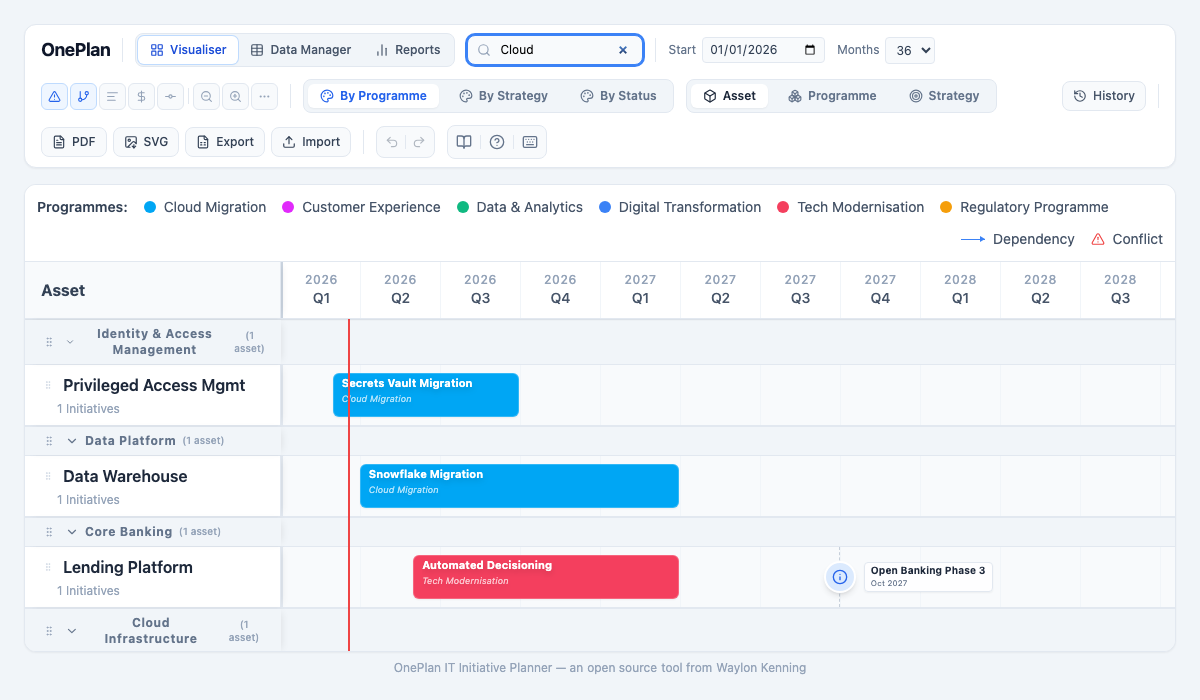
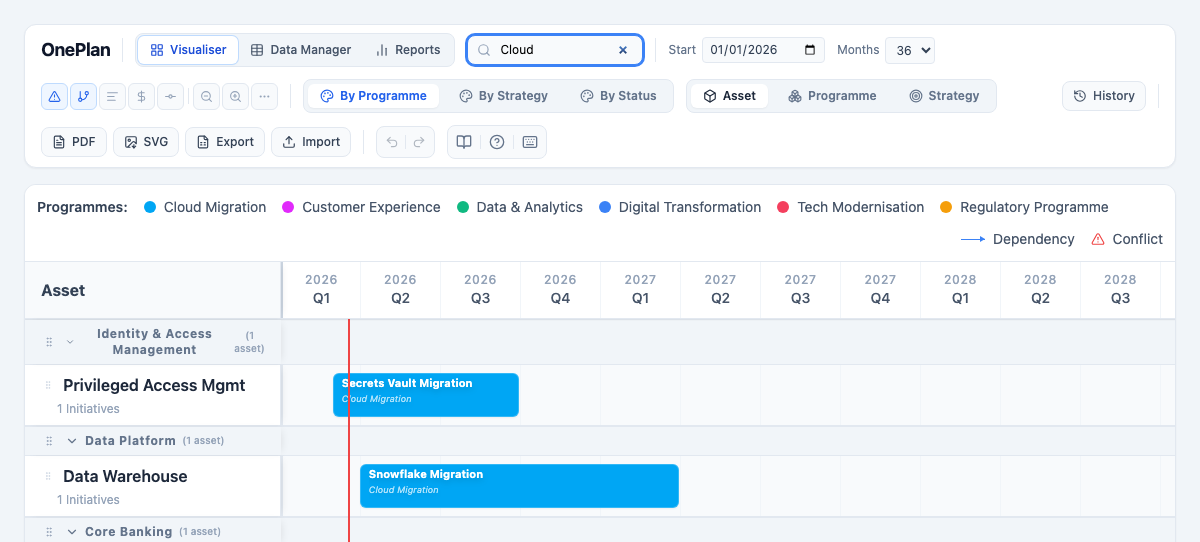
fix: crop feature screenshots to timeline content area, removing nav bar
Added timelineContentY() and dataManagerContentY() helpers to measure
the header height dynamically. All feature screenshots now clip to start
below the app header so the initiative bars, dependency arrows, table
rows, and search results fill the card image — not the navigation chrome.

diff --git a/e2e/capture-screenshots.spec.ts b/e2e/capture-screenshots.spec.ts
@@ -19,6 +19,25 @@ async function loadAppWithDemoData(page: import('@playwright/test').Page) {
   await page.waitForSelector('[data-testid="asset-row-content"]', { timeout: 20000 });
 }
 
+/** Y coordinate where the scrollable timeline content starts (below all header rows). */
+async function timelineContentY(page: import('@playwright/test').Page): Promise<number> {
+  return page.evaluate(() => {
+    const el = document.querySelector('.flex-1.overflow-auto');
+    return el ? Math.round(el.getBoundingClientRect().top) : 170;
+  });
+}
+
+/** Y coordinate where the data-manager table content starts (including tab strip). */
+async function dataManagerContentY(page: import('@playwright/test').Page): Promise<number> {
+  return page.evaluate(() => {
+    // Tab strip sits above the table — find it
+    const tabs = document.querySelector('[data-testid="data-manager-tabs"], .border-b.border-slate-200');
+    if (tabs) return Math.max(0, Math.round(tabs.getBoundingClientRect().top) - 4);
+    const table = document.querySelector('table');
+    return table ? Math.max(0, Math.round(table.getBoundingClientRect().top) - 50) : 130;
+  });
+}
+
 // ─── TUTORIAL SCREENSHOTS ────────────────────────────────────────────────────
 
 test('tutorial/1-overview — full timeline', async ({ page }) => {
@@ -94,9 +113,10 @@ test('features/dependency — dependency arrows on timeline', async ({ page }) =
   await loadAppWithDemoData(page);
   await page.waitForSelector('[data-testid="initiative-bar"]', { timeout: 10000 });
   await page.waitForTimeout(600);
+  const y = await timelineContentY(page);
   await page.screenshot({
     path: `${OUT}/features/dependency.png`,
-    clip: { x: 0, y: 0, width: 1200, height: 700 },
+    clip: { x: 0, y, width: 1200, height: 400 },
   });
 });
 
@@ -104,16 +124,16 @@ test('features/conflict — overlapping initiatives flagged', async ({ page }) =
   await page.setViewportSize({ width: 1200, height: 700 });
   await loadAppWithDemoData(page);
   await page.waitForSelector('[data-testid="initiative-bar"]', { timeout: 10000 });
-  // Scroll the timeline scroll container to reveal Core Ledger / Payments Engine rows
+  // Scroll to Core Ledger / Payments Engine rows which have overlapping initiatives
   await page.evaluate(() => {
-    // The timeline uses a flex-1 overflow-auto container
     const container = document.querySelector('.flex-1.overflow-auto');
     if (container) container.scrollTop = 800;
   });
   await page.waitForTimeout(500);
+  const y = await timelineContentY(page);
   await page.screenshot({
     path: `${OUT}/features/conflict.png`,
-    clip: { x: 0, y: 0, width: 1200, height: 700 },
+    clip: { x: 0, y, width: 1200, height: 400 },
   });
 });
 
@@ -127,9 +147,10 @@ test('features/grouped — collapsed asset row', async ({ page }) => {
     await collapseBtn.click();
     await page.waitForTimeout(400);
   }
+  const y = await timelineContentY(page);
   await page.screenshot({
     path: `${OUT}/features/grouped.png`,
-    clip: { x: 0, y: 0, width: 1200, height: 700 },
+    clip: { x: 0, y, width: 1200, height: 400 },
   });
 });
 
@@ -138,13 +159,13 @@ test('features/inline-editing — data manager table', async ({ page }) => {
   await loadAppWithDemoData(page);
   await page.getByTestId('nav-data-manager').click();
   await page.waitForSelector('table tbody tr[data-real="true"]', { timeout: 10000 });
-  // Click into first cell to show editing
   const firstInput = page.locator('table tbody tr[data-real="true"]').first().locator('input').first();
   await firstInput.click();
   await page.waitForTimeout(300);
+  const y = await dataManagerContentY(page);
   await page.screenshot({
     path: `${OUT}/features/inline-editing.png`,
-    clip: { x: 0, y: 0, width: 1200, height: 700 },
+    clip: { x: 0, y, width: 1200, height: 400 },
   });
 });
 
@@ -153,17 +174,16 @@ test('features/column-resize — data manager column resize handle', async ({ pa
   await loadAppWithDemoData(page);
   await page.getByTestId('nav-data-manager').click();
   await page.waitForSelector('table tbody tr[data-real="true"]', { timeout: 10000 });
-  // Hover over the border between first and second column headers to show resize cursor
   const firstTh = page.locator('table thead th').first();
   const box = await firstTh.boundingBox();
   if (box) {
-    // Hover right at the right edge of the first header (resize handle zone)
     await page.mouse.move(box.x + box.width - 2, box.y + box.height / 2);
   }
   await page.waitForTimeout(300);
+  const y = await dataManagerContentY(page);
   await page.screenshot({
     path: `${OUT}/features/column-resize.png`,
-    clip: { x: 0, y: 0, width: 1200, height: 700 },
+    clip: { x: 0, y, width: 1200, height: 400 },
   });
 });
 
@@ -171,40 +191,31 @@ test('features/global-search — search bar with results', async ({ page }) => {
   await page.setViewportSize({ width: 1200, height: 700 });
   await loadAppWithDemoData(page);
   await page.waitForSelector('[data-testid="initiative-bar"]', { timeout: 10000 });
-  // Open search if there's a search input/button
   const searchInput = page.locator('input[placeholder*="Search"], input[type="search"]').first();
   if (await searchInput.isVisible()) {
     await searchInput.click();
     await searchInput.fill('Cloud');
     await page.waitForTimeout(400);
-  } else {
-    // Try clicking a search button
-    const searchBtn = page.locator('[data-testid="search-btn"], [aria-label*="Search"]').first();
-    if (await searchBtn.isVisible()) {
-      await searchBtn.click();
-      await page.waitForTimeout(200);
-      const input = page.locator('input[placeholder*="Search"], input[type="search"]').first();
-      await input.fill('Cloud');
-      await page.waitForTimeout(400);
-    }
   }
+  // For search: show the nav bar (search input) + filtered timeline results below it
+  const y = await timelineContentY(page);
   await page.screenshot({
     path: `${OUT}/features/global-search.png`,
-    clip: { x: 0, y: 0, width: 1200, height: 700 },
+    clip: { x: 0, y: 0, width: 1200, height: y + 280 },
   });
 });
 
-test('features/move-resize — initiative bar selected/focused', async ({ page }) => {
+test('features/move-resize — initiative bar hovered', async ({ page }) => {
   await page.setViewportSize({ width: 1200, height: 700 });
   await loadAppWithDemoData(page);
   await page.waitForSelector('[data-testid="initiative-bar"]', { timeout: 10000 });
-  // Hover over an initiative bar to show resize handles
   const bar = page.locator('[data-testid="initiative-bar"]').first();
   await bar.hover();
   await page.waitForTimeout(300);
+  const y = await timelineContentY(page);
   await page.screenshot({
     path: `${OUT}/features/move-resize.png`,
-    clip: { x: 0, y: 0, width: 1200, height: 700 },
+    clip: { x: 0, y, width: 1200, height: 400 },
   });
 });
 
